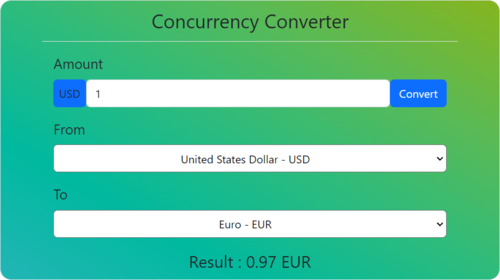
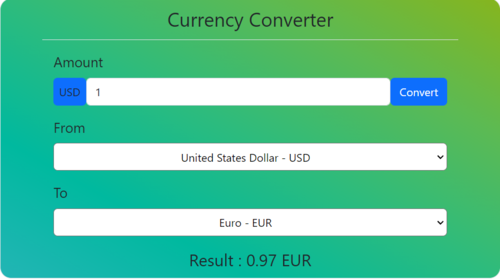
Update text

diff --git a/src/App.js b/src/App.js
@@ -14,7 +14,7 @@ function App() {
           <div className="row">
             <div className="col-1"></div>
             <div className="col-10 fs-3 border-bottom text-center p-2">
-              Concurrency Converter
+              Currency Converter
             </div>
             <div className="col-1"></div>
           </div>
